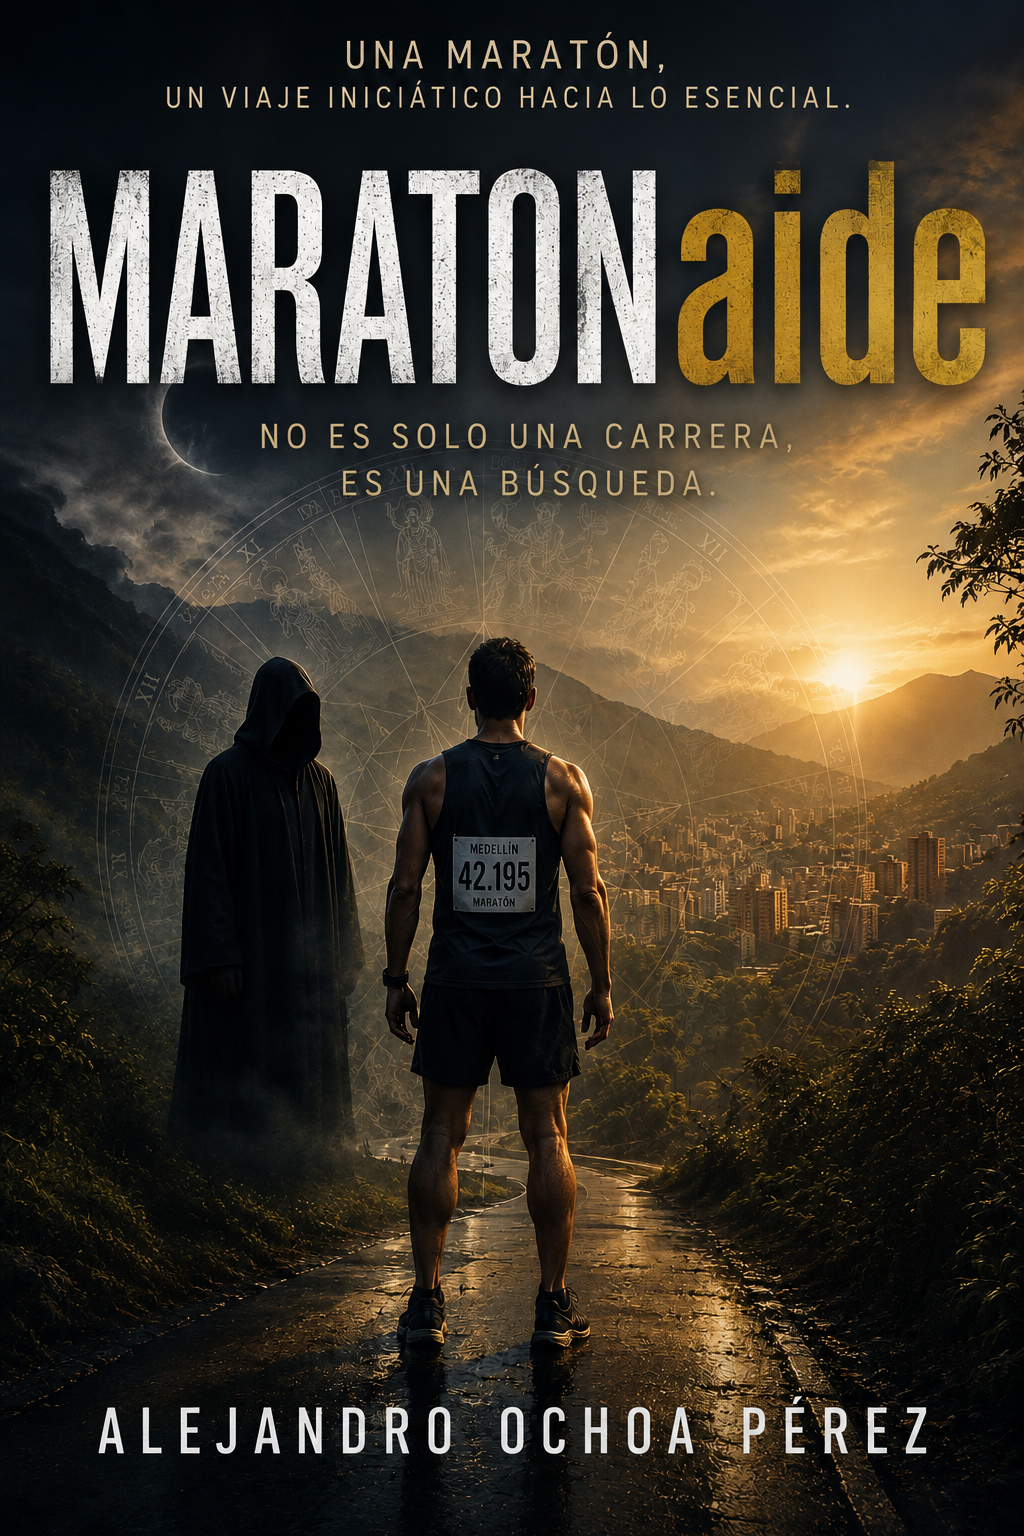
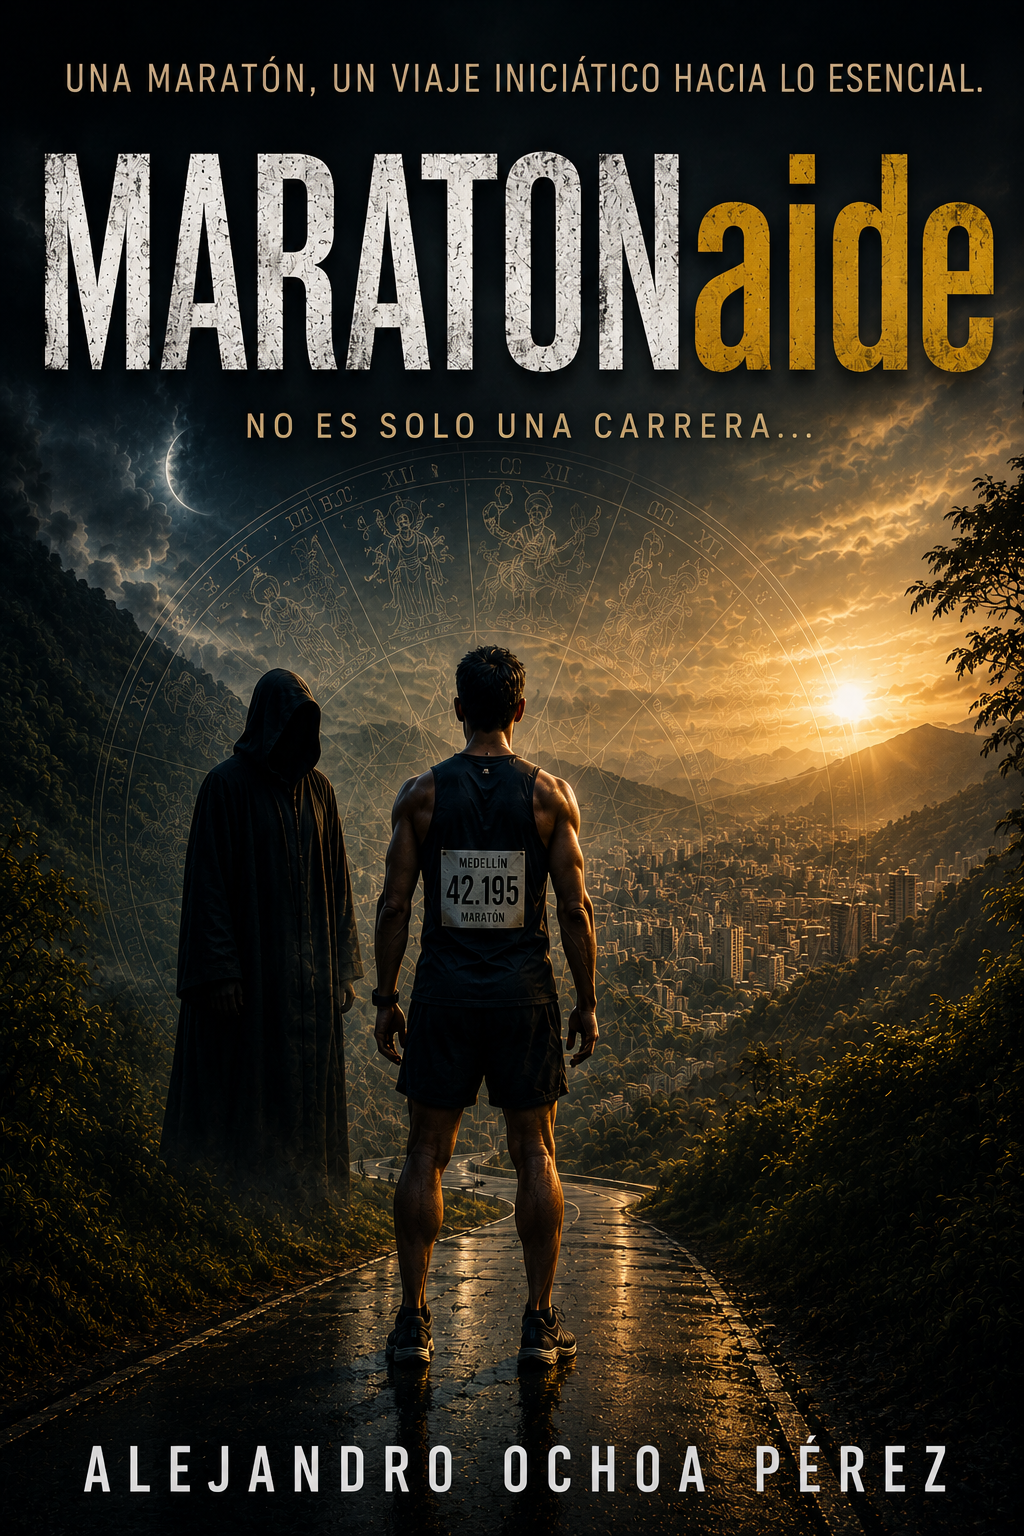
Portada en hero de inicio + limpieza CSS

diff --git a/css/style.css b/css/style.css
@@ -157,6 +157,36 @@ body {
     background: linear-gradient(180deg, var(--bg-primary) 0%, var(--bg-secondary) 50%, var(--bg-primary) 100%);
     position: relative;
     overflow: hidden;
+    gap: 4rem;
+}
+
+.hero-content {
+    max-width: 600px;
+    position: relative;
+    z-index: 1;
+    text-align: center;
+}
+
+.hero-cover {
+    flex-shrink: 0;
+    display: flex;
+    align-items: center;
+    justify-content: center;
+}
+
+.hero-cover-img {
+    width: 100%;
+    max-width: 320px;
+    height: auto;
+    border-radius: var(--radius);
+    box-shadow: var(--shadow), var(--shadow-gold);
+    border: 1px solid var(--border);
+    transition: var(--transition);
+}
+
+.hero-cover-img:hover {
+    transform: translateY(-4px);
+    box-shadow: 0 8px 40px rgba(212, 168, 75, 0.2);
 }
 
 .hero::before {
@@ -168,12 +198,6 @@ body {
     bottom: 0;
     background: radial-gradient(ellipse at 50% 0%, rgba(212, 168, 75, 0.06) 0%, transparent 60%);
     pointer-events: none;
-}
-
-.hero-content {
-    max-width: 800px;
-    position: relative;
-    z-index: 1;
 }
 
 .hero-badge {
@@ -549,6 +573,16 @@ body {
 
     .hero {
         padding: 5rem 1.5rem 3rem;
+        flex-direction: column;
+        gap: 2rem;
+    }
+
+    .hero-content {
+        max-width: 100%;
+    }
+
+    .hero-cover-img {
+        max-width: 240px;
     }
 
     .section {

diff --git a/index.html b/index.html
@@ -47,6 +47,9 @@
             <p class="hero-meta">Completa · Julio 2026 · Medellín, Colombia</p>
             <a href="leer/prologo.html" class="hero-cta">Comenzar a leer →</a>
         </div>
+        <div class="hero-cover">
+            <img src="maratonaide_cover_v1_1783202676798.png" alt="MARATONaide — Portada" class="hero-cover-img">
+        </div>
         <div class="hero-scroll">Desplázate</div>
     </section>
 
